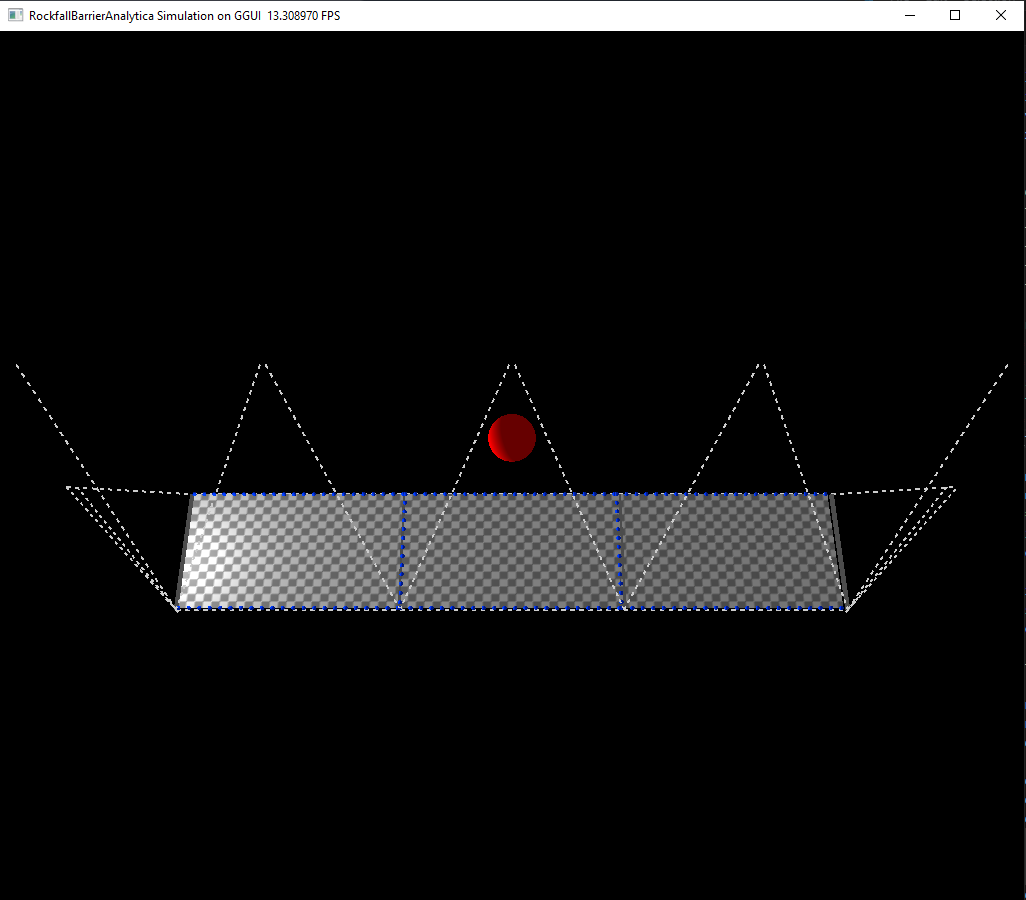
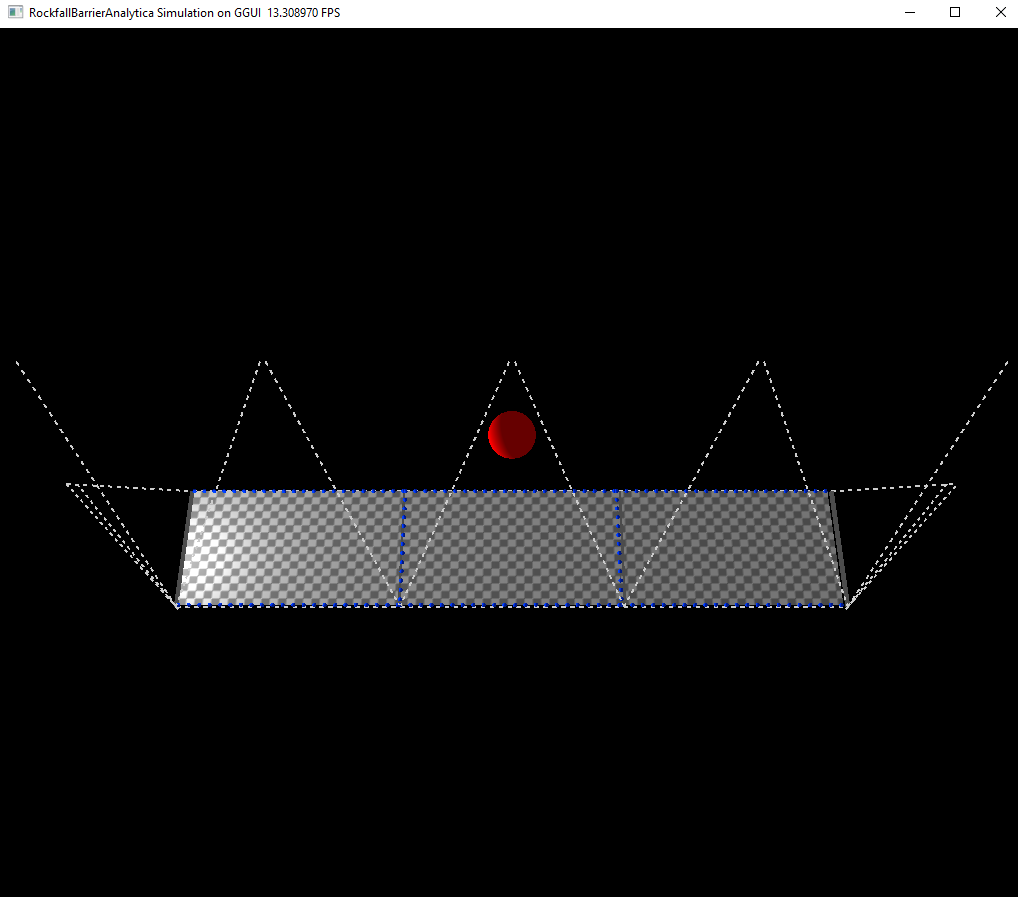
Experiments with sim params

diff --git a/main.py b/main.py
@@ -178,7 +178,7 @@ def substep():
             length_direction = length / length_norm if length_norm != 0 else 0
             velocity_difference = v_rope[rid, i] - v_rope[rid, i - 1]
             damping_force = -rope_damper * velocity_difference
-            spring_force = -rope_spring * abs(length_norm - d) * length_direction
+            spring_force = -rope_spring * (length_norm - d) * length_direction #abs(length_norm - d)
             force += spring_force + damping_force
 
         # spring force with the next node in the rope
@@ -188,7 +188,7 @@ def substep():
             length_direction = length / length_norm if length_norm != 0 else 0
             velocity_difference = v_rope[rid, i] - v_rope[rid, i + 1]
             damping_force = -rope_damper * velocity_difference
-            spring_force = -rope_spring * abs(length_norm - d) * length_direction
+            spring_force = -rope_spring * (length_norm - d) * length_direction #abs(length_norm - d)
             force += spring_force + damping_force
 
         v_rope[rid, i] += dt * force / m_rope[rid, i]

diff --git a/properties.py b/properties.py
@@ -49,7 +49,7 @@ shackle_damp_sj = 1e2
 shackle_node_mass = 1
 
 # Posts
-post_node_mass = 50
+post_node_mass = 100 #50
 post_spring = 1e8
 post_damper = 1e4
 
